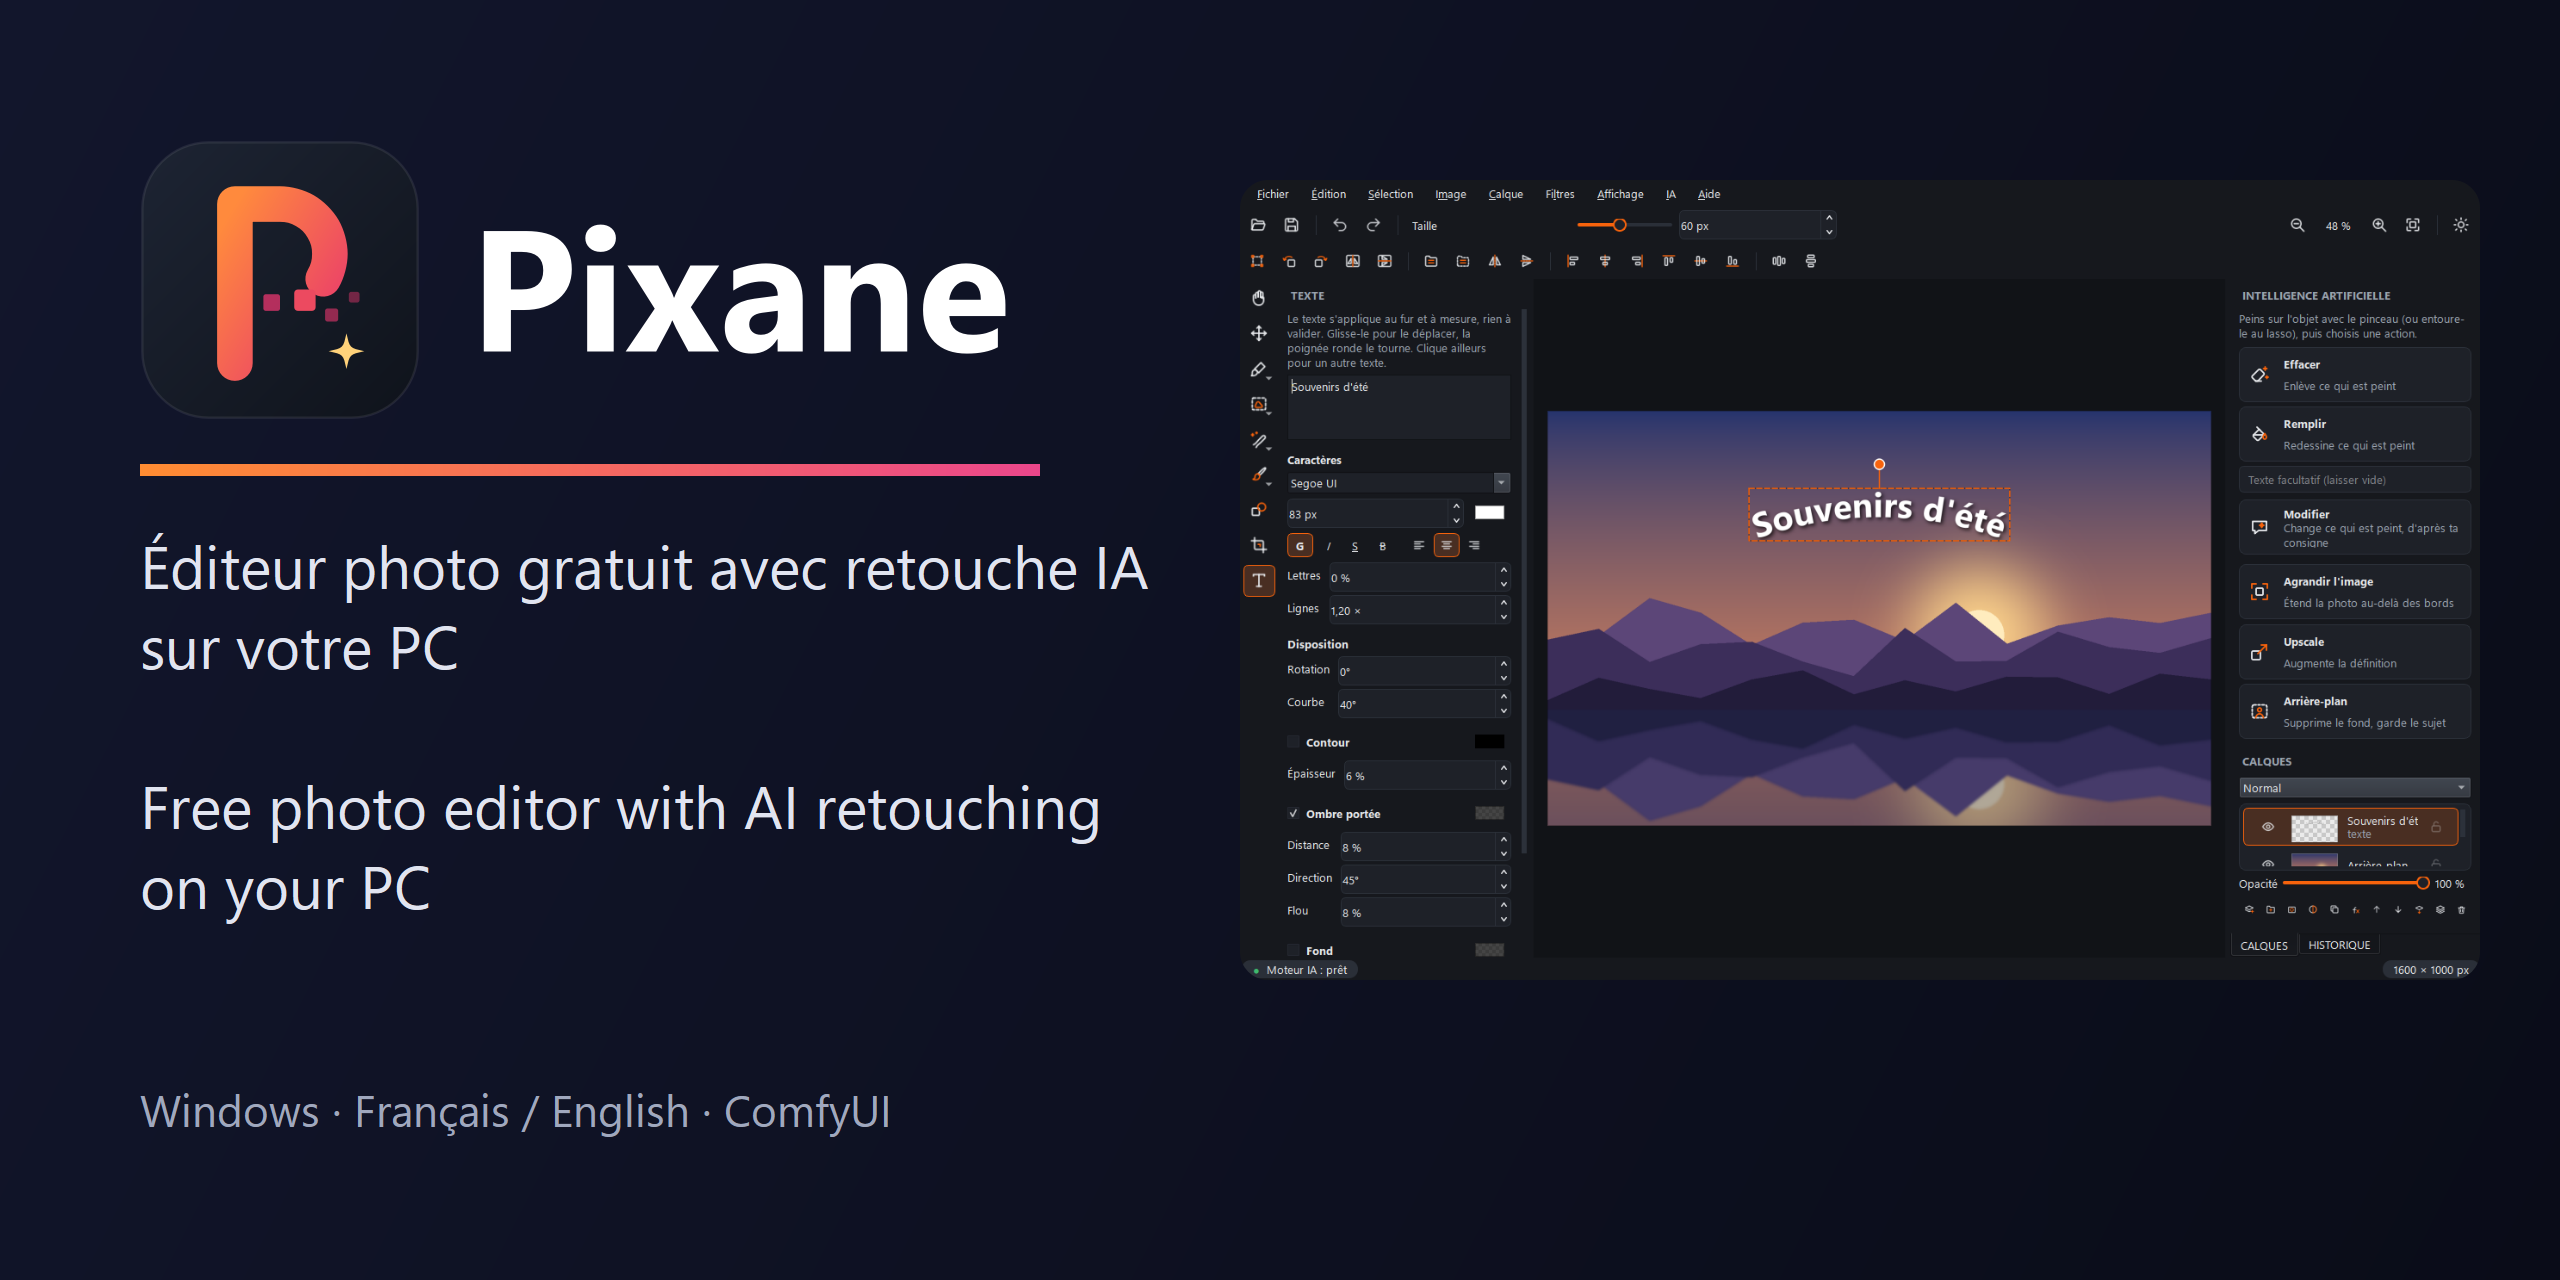
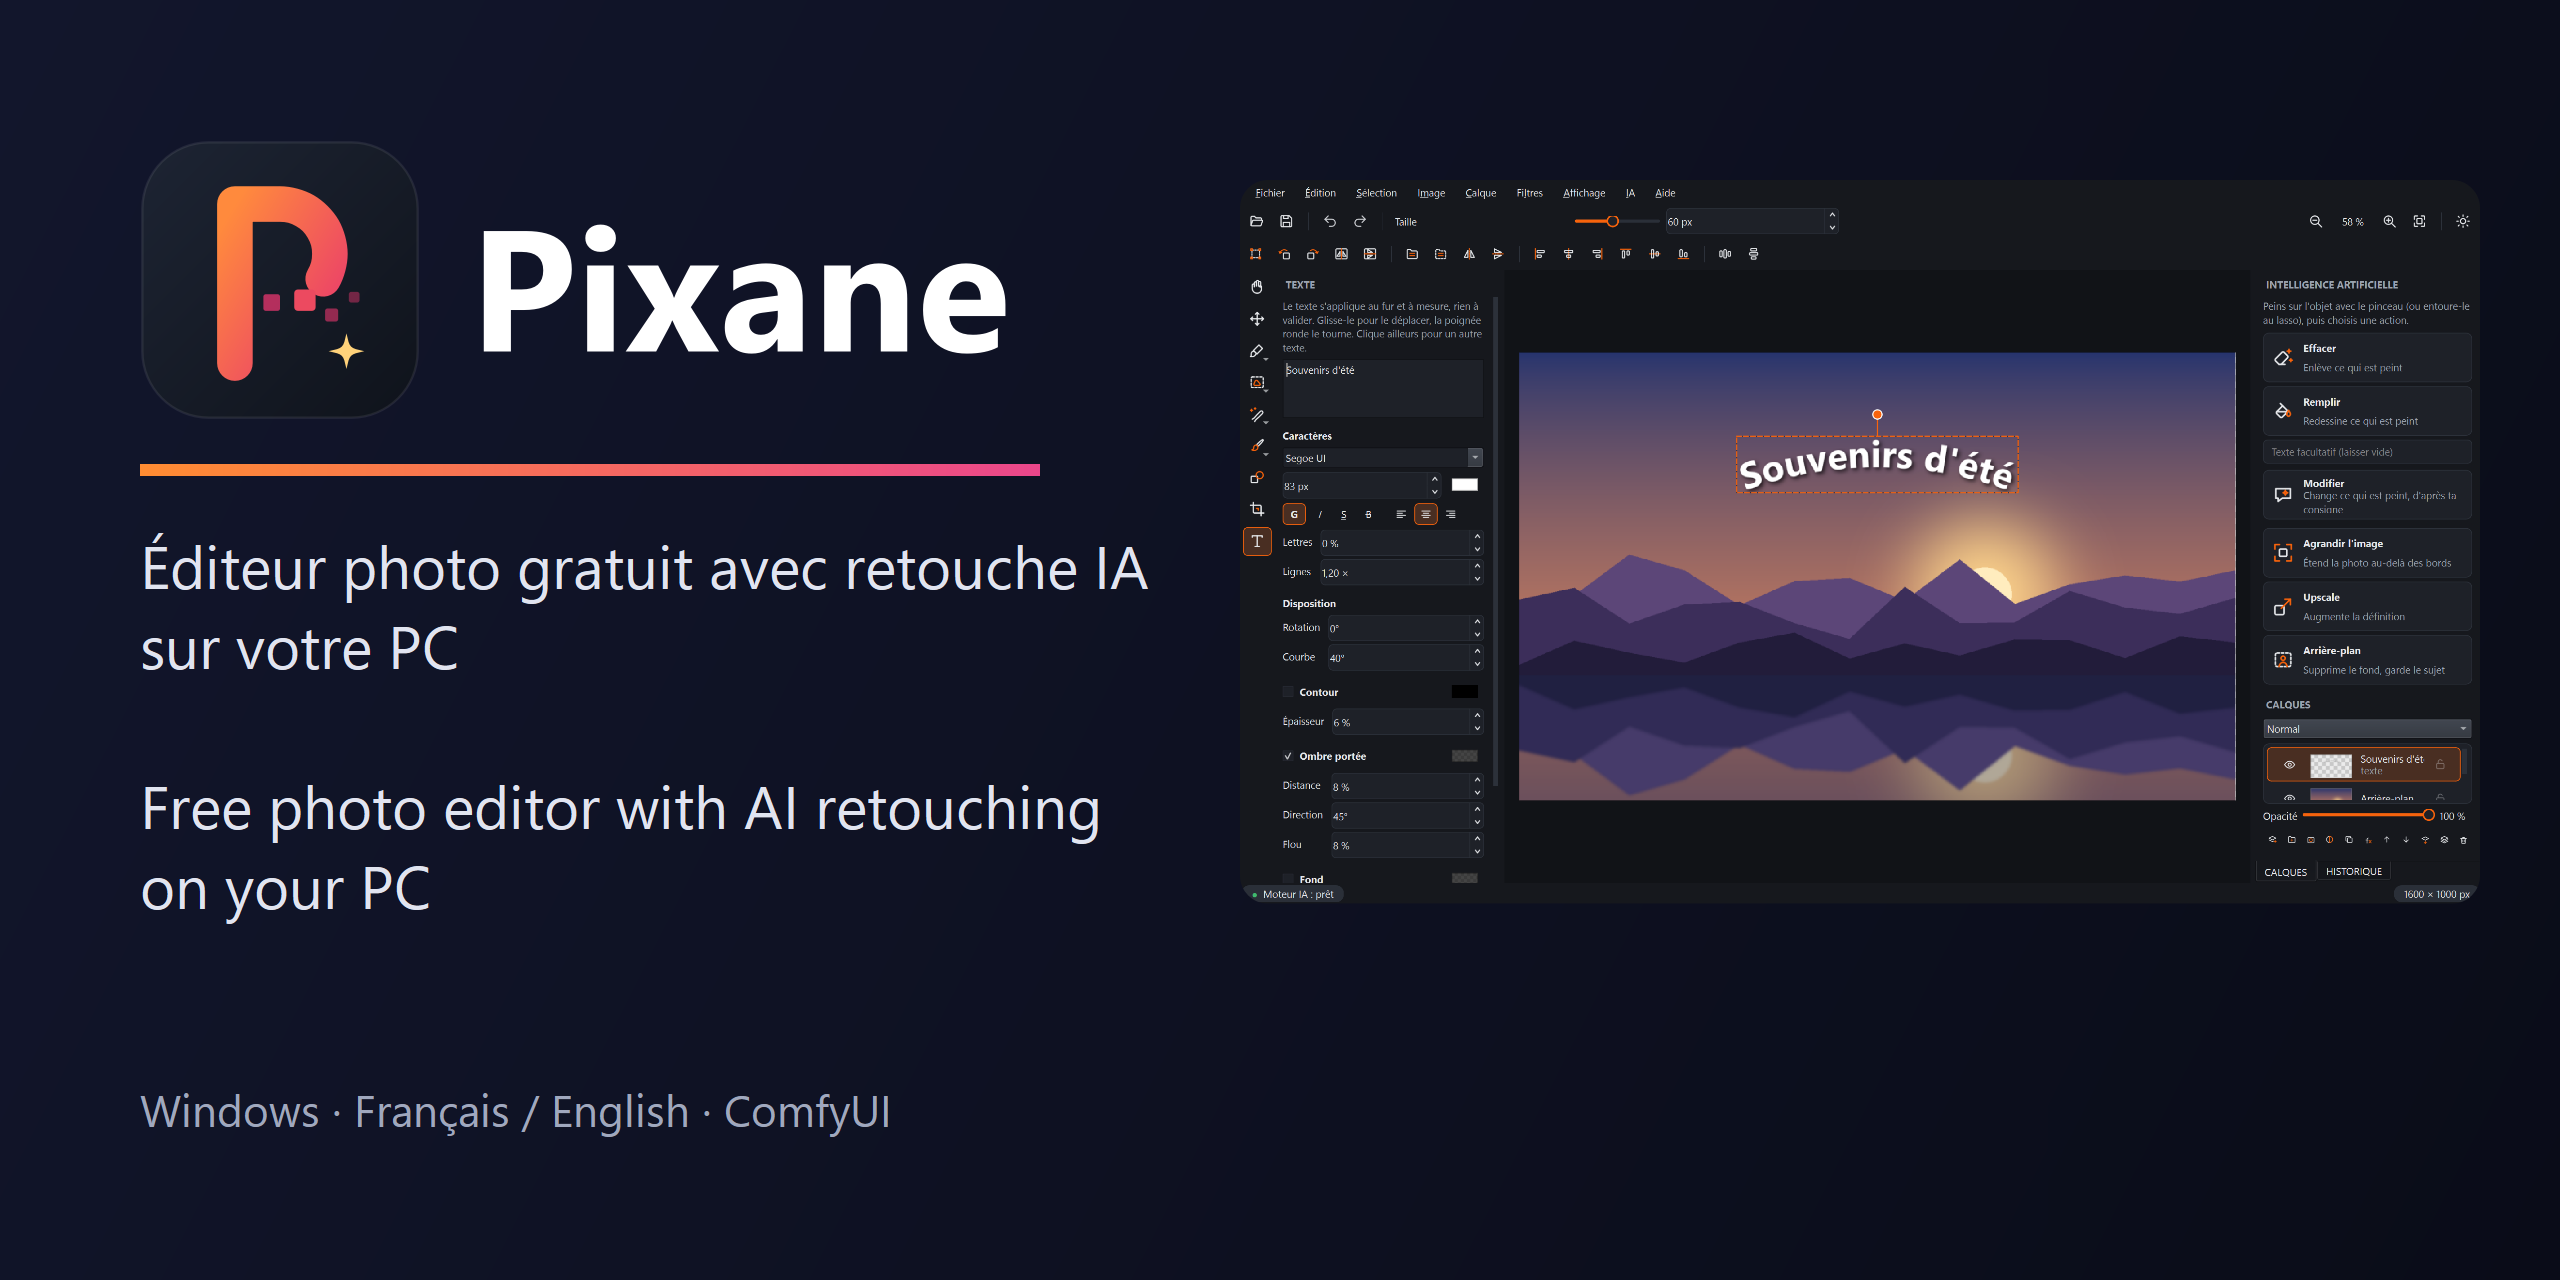
Captures d'écran en 2K (2560 px) et image d'aperçu refaite

diff --git a/README.en.md b/README.en.md
@@ -70,7 +70,7 @@ Free photo editor for Windows, with artificial intelligence retouching **that ru
 - **Update check** (on request or at startup)
 - Installer that checks the PC and downloads the AI engine itself (ComfyUI and the models), resuming after an interruption; with a ComfyUI already installed, only what it is missing
 
-![Pixane: curved text on a landscape, Artificial intelligence panel on the right](docs/screenshots/pixane-en.png)
+![Pixane: curved text on a landscape, Artificial intelligence panel on the right](docs/screenshots/pixane-2k-en.png)
 
 ## System requirements
 

diff --git a/README.md b/README.md
@@ -70,7 +70,7 @@
 - **Recherche des mises à jour** (sur demande ou au démarrage)
 - Installateur qui vérifie le PC et télécharge lui-même le moteur IA (ComfyUI et les modèles), avec reprise après coupure ; avec un ComfyUI déjà installé, seulement ce qui lui manque
 
-![Pixane : texte en arc sur un paysage, panneau Intelligence artificielle à droite](docs/screenshots/pixane-fr.png)
+![Pixane : texte en arc sur un paysage, panneau Intelligence artificielle à droite](docs/screenshots/pixane-2k-fr.png)
 
 ## Configuration
 
